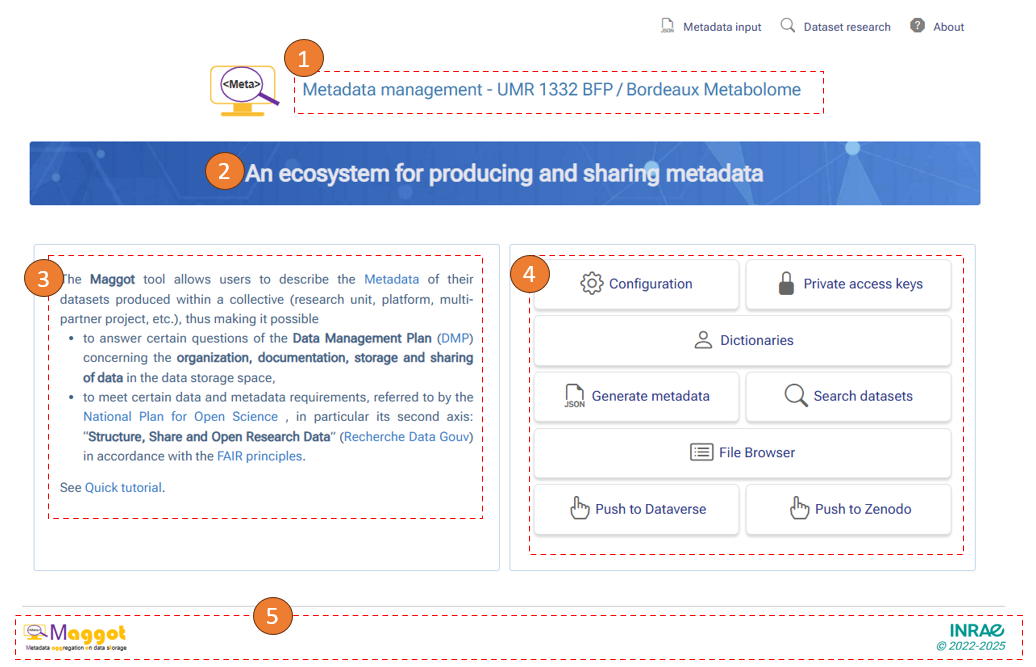
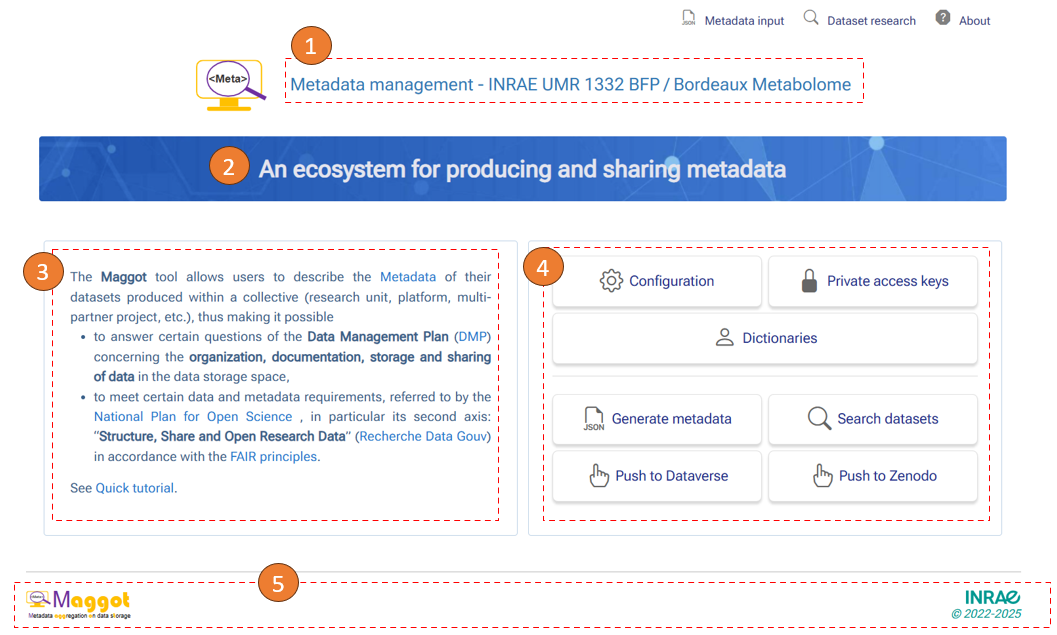
update

diff --git a/docs/home_page.md b/docs/home_page.md
@@ -68,6 +68,10 @@ $OPTIONS = [
 ...
 
 ];
+
+# Separator after rows
+$ROW_SEPARATOR = [2];
+
 ```
 
 **Meaning of each of the parameters defining an option**
@@ -83,6 +87,8 @@ $OPTIONS = [
 * **_info_** : Sets the text appearing in a tooltip box when you pass the mouse over the button. Note that HTML tags are supported.
 
 * **_row_** : Indicates the line on which the option appears. You can put 2 to 3 options per line depending on the length of the labels. Depending on the configuration settings, i.e., whether the options are active or not, you can arrange the options as you wish. 
+
+Additionally, separator lines can be inserted by specifying in the **$ROW_SEPARATOR** variable the row numbers where they should be inserted.
 
 <br><br><br>
 
